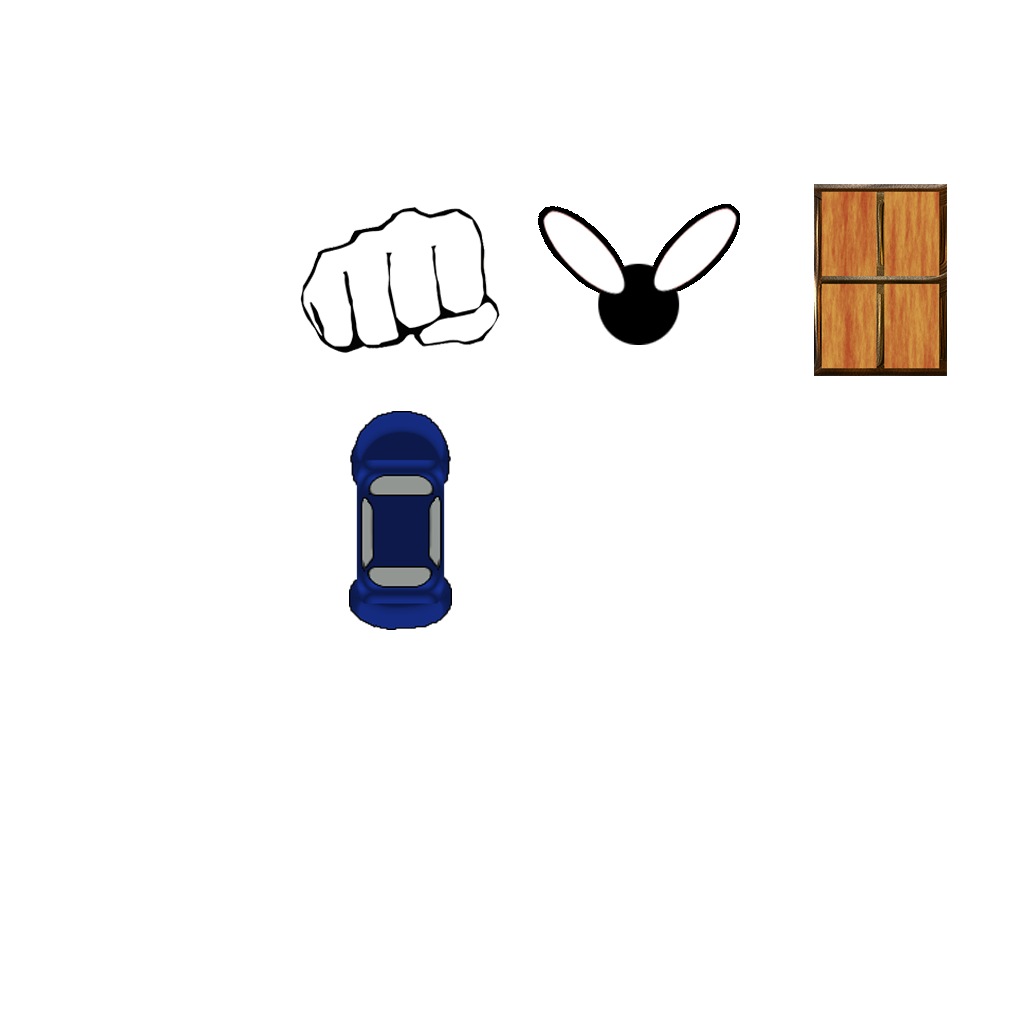
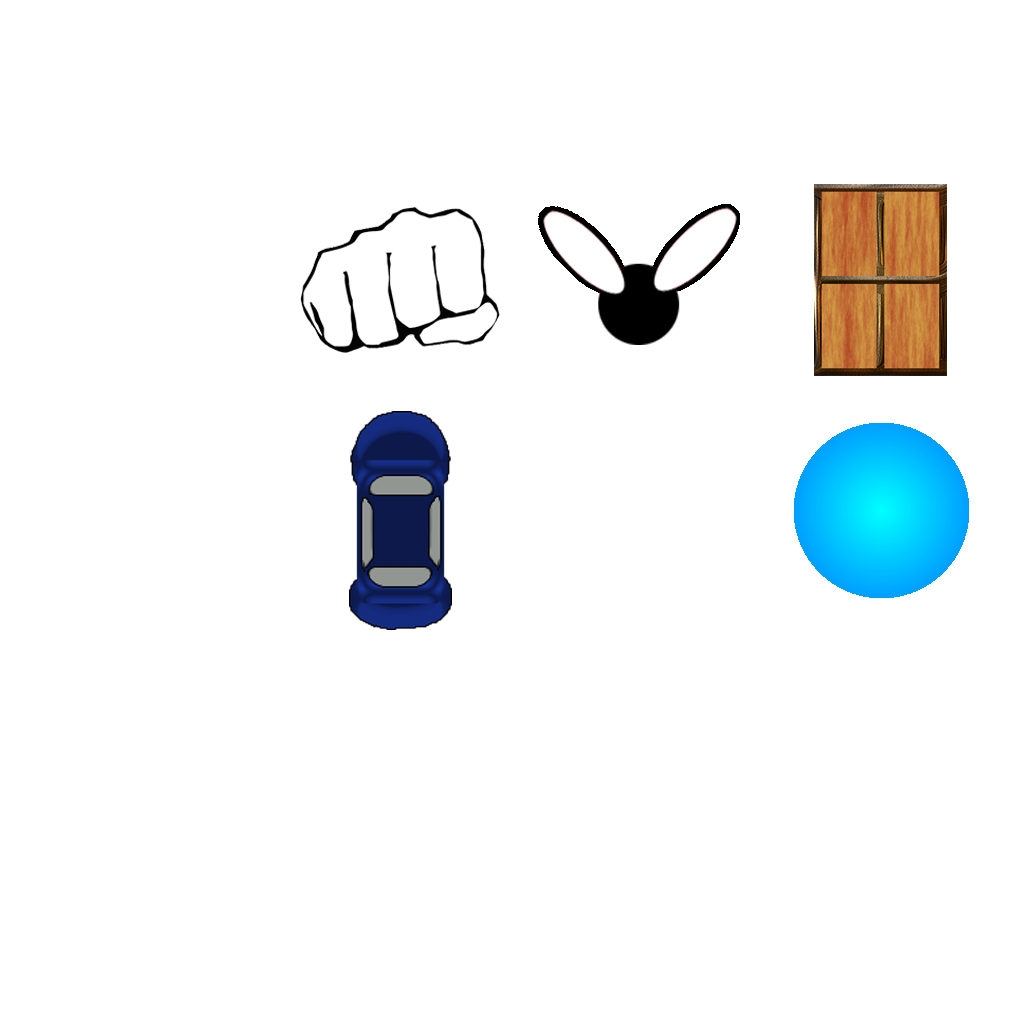
Implemented US15 - LazerBall Play from Grid slot #6

Changed region(s): [[0.75, 0.4062, 0.9688, 0.5938]]

diff --git a/vergegl/src/com/dbz/verge/microgames/LazerBallMicroGame.java b/vergegl/src/com/dbz/verge/microgames/LazerBallMicroGame.java
@@ -1,0 +1,210 @@
+package com.dbz.verge.microgames;
+
+import java.util.List;
+import com.dbz.framework.Game;
+import com.dbz.framework.Input.TouchEvent;
+import com.dbz.framework.math.Rectangle;
+import com.dbz.verge.Assets;
+import com.dbz.verge.MicroGame;
+
+//TODO: Explosion Art, better laser art, something better than bob as target, Good "Firin Mah Lazer" sound byte
+//tap the lazer to charge it.
+public class LazerBallMicroGame extends MicroGame  {
+	
+	// --------------
+	// --- Fields ---
+	// --------------
+
+	// Array used to store the different required counts of the 3 difficulty levels.
+	private int requiredlazerChargeCount[] = { 10, 20, 30 };
+	private int chargeCount = 0;
+	
+	//growth rates for each level (one rate per animation)
+	private int growthStage = 0;
+	int[] level1GrowthRate = {2, 4, 6, 8 ,10};
+	int[] level2GrowthRate = {4, 8, 12, 16, 20};
+	int[] level3GrowthRate = {6, 12, 18, 24, 30};
+	
+	//set to growth rate for lv 1 -- 	//TODO: add logic to handle difficulty changes
+	int[] currentLevelGrowthRate = level1GrowthRate;
+
+	//used to track state of laser
+	private boolean readyToFire = false;
+	private boolean lazerFired = false;
+	
+	// Bounds for touch detection.
+	private Rectangle lazerBallBounds = new Rectangle(150, 40, 600, 600);
+	private Rectangle fireButtonBounds = new Rectangle(0, 240, 100, 250);
+	private Rectangle targetBounds = new Rectangle(1100, 240, 250, 200); 
+	
+	// -------------------
+	// --- Constructor ---
+	// -------------------   
+	public LazerBallMicroGame(Game game) {
+		super(game);
+	}
+
+	    // ---------------------
+		// --- Update Method ---
+		// ---------------------
+	    
+		@Override
+		public void updateRunning(float deltaTime) {
+			totalRunningTime += deltaTime;
+			
+			// Checks for time-based loss.
+			if (lostTimeBased()) {
+				Assets.playSound(Assets.hitSound);
+				resetGrowthStage();
+				return;
+			}
+			
+	        //if lazer has been fired, keep lazer moving & check for target collision
+	        if(lazerFired){
+	        	movelazer();
+        		
+        		if(collision(lazerBallBounds, targetBounds)){
+        			Assets.playSound(Assets.highJumpSound);
+        			microGameState = MicroGameState.Won;
+        			resetGrowthStage();
+        		}
+        		return;
+	        }
+			
+		    List<TouchEvent> touchEvents = game.getInput().getTouchEvents();
+		    int len = touchEvents.size();
+		    for(int i = 0; i < len; i++) {
+		        TouchEvent event = touchEvents.get(i);
+	        	touchPoint.set(event.x, event.y);
+		        guiCam.touchToWorld(touchPoint);
+		        
+		        // Tests if lazer is touched.
+	        	if (targetTouched(event, touchPoint, lazerBallBounds)) {
+	        		
+	    			if(!readyToFire){
+		        		chargeCount++;
+		        		if(chargeCount == currentLevelGrowthRate[growthStage])
+		        			increaseGrowthStage();
+	    			}
+	        		
+	        		if (chargeCount == requiredlazerChargeCount[level-1]) {
+	        			readyToFire = true;
+	        			fireButtonReady();
+	        				
+	        		}
+	        		else if (chargeCount < requiredlazerChargeCount[level-1])
+	        			Assets.playSound(Assets.coinSound);
+	        		return;
+	        	}
+	        	
+		        //Tests if fire button is touched
+		        if(targetTouched(event, touchPoint, fireButtonBounds))
+		        	if(readyToFire){
+		        		firelazer();
+		        		return;
+		        	}	
+	        	
+		        
+	        	// Tests for non-unique touch events, which is currently pause only.
+		        if (event.type == TouchEvent.TOUCH_UP)
+		        	super.updateRunning(touchPoint);
+		    }   
+		}
+
+		// -------------------
+		// --- Draw Method ---
+		// -------------------
+		
+		@Override
+		public void presentRunning() {
+			drawBackground();
+			drawObjects();
+			// drawRunningBounds();
+			
+			if (readyToFire || lazerFired)
+				drawInstruction("FIRE YA LAZERRR!!!!");
+			else drawInstruction("Tap the lazer ball!");
+			super.presentRunning();
+		}
+		
+		
+		// ----------------------------
+		// --- Utility Update Methods ---
+		// ----------------------------
+		
+		//Increments lazer's growth stage, changes lazer animation
+		private void increaseGrowthStage(){
+			growthStage++;
+			Assets.lazerState1Region = Assets.lazerChargingAnim.getKeyFrame(growthStage); //overrides first texture w/ next anim
+		}
+		
+		//resets growth stage and lazer animation.
+		private void resetGrowthStage(){
+			growthStage = 0;
+			readyToFire = false;
+			lazerFired = false;
+			Assets.lazerState1Region = Assets.lazerChargingAnim.getKeyFrame(growthStage);
+		}
+		
+		private void fireButtonReady(){
+			Assets.lazerFireButtonInitialRegion = Assets.lazerFireButtonAnim.getKeyFrame(1);
+		}
+
+		private void resetFireButton(){
+			Assets.lazerFireButtonInitialRegion = Assets.lazerFireButtonAnim.getKeyFrame(0);
+		}
+		
+		private void firelazer(){		
+        		movelazer();
+        		lazerFired = true;
+        		readyToFire = false;
+        		resetFireButton();
+		}
+		
+		private void movelazer(){
+			lazerBallBounds.lowerLeft.x *= 2;
+		}
+		
+		public boolean collision(Rectangle lazer, Rectangle target) {
+			
+			if(target.lowerLeft.x <= lazer.lowerLeft.x)
+				return true;
+			
+			return false;
+		}
+		
+		
+		// ----------------------------
+		// --- Utility Draw Methods ---
+		// ----------------------------
+		
+		@Override
+		public void drawBackground() {
+			// Draw background.
+			batcher.beginBatch(Assets.lazerBackground);
+			batcher.drawSprite(0, 0, 1280, 800, Assets.lazerBackgroundRegion);
+			batcher.endBatch();
+		}
+		
+		@Override
+		public void drawObjects() {
+			// Draw Brofist.
+			batcher.beginBatch(Assets.lazer);
+			batcher.drawSprite(lazerBallBounds, Assets.lazerState1Region);
+			batcher.drawSprite(fireButtonBounds, Assets.lazerFireButtonInitialRegion);
+			batcher.drawSprite(targetBounds, Assets.lazerTargetRegion);
+			batcher.endBatch();
+		}
+		
+		@Override
+		public void drawRunningBounds() {
+			// Bounding Boxes
+			batcher.beginBatch(Assets.boundOverlay);
+		    batcher.drawSprite(lazerBallBounds, Assets.boundOverlayRegion); // BroFist Bounding Box
+		    batcher.drawSprite(fireButtonBounds, Assets.boundOverlayRegion);
+		    batcher.drawSprite(targetBounds, Assets.boundOverlayRegion);
+		    batcher.endBatch();
+		}
+		
+	
+}

diff --git a/vergegl/src/com/dbz/verge/Assets.java b/vergegl/src/com/dbz/verge/Assets.java
@@ -61,6 +61,22 @@ public class Assets {
     public static TextureRegion trafficRedCarRegion;
     public static TextureRegion trafficBlackCarRegion;
     
+    public static Texture lazerBackground;
+    public static TextureRegion lazerBackgroundRegion;
+    public static Texture lazer;
+    public static TextureRegion lazerState1Region;
+    public static TextureRegion lazerState2Region;
+    public static TextureRegion lazerState3Region;
+    public static TextureRegion lazerState4Region;
+    public static TextureRegion lazerState5Region;
+    public static TextureRegion lazerState6Region;
+    public static TextureRegion lazerFireButtonInitialRegion;
+    public static TextureRegion lazerFireButtonReadyRegion;
+    public static TextureRegion lazerTargetRegion;
+    public static Animation lazerChargingAnim;
+    public static Animation lazerFireButtonAnim;
+    
+    
     // ------------------------
   	// --- Testing Assets -----
   	// ------------------------
@@ -143,6 +159,23 @@ public class Assets {
         trafficRedCarRegion = new TextureRegion(traffic, 80, 800, 80, 170);
         trafficBlackCarRegion = new TextureRegion(traffic, 160, 800, 80, 170);
         
+        lazerBackground = new Texture(game, "lazerBackground.png");
+        lazerBackgroundRegion = new TextureRegion(lazerBackground, 0, 0, 1280, 800);
+        lazer = new Texture(game, "lazerItems.png");
+        lazerState1Region= new TextureRegion(lazer, 0, 0, 256, 256);
+        lazerState2Region = new TextureRegion(lazer, 256, 0, 256, 256);
+        lazerState3Region = new TextureRegion(lazer, 512, 0, 256, 256);
+        lazerState4Region = new TextureRegion(lazer, 768, 0, 256, 256);
+        lazerState5Region = new TextureRegion(lazer, 0, 256, 256, 256);
+        lazerState6Region = new TextureRegion(lazer, 256, 256, 256, 256);        
+        lazerFireButtonInitialRegion = new TextureRegion(lazer, 512, 256, 128, 256);
+        lazerFireButtonReadyRegion = new TextureRegion(lazer, 640, 256, 128, 256);
+        lazerTargetRegion = new TextureRegion(lazer, 896, 256, 128, 128);
+        lazerChargingAnim = new Animation(0, lazerState1Region, lazerState2Region, 
+        								lazerState3Region, lazerState4Region, lazerState5Region, lazerState6Region);
+        lazerFireButtonAnim = new Animation(0, lazerFireButtonInitialRegion, lazerFireButtonReadyRegion);
+        
+        
         
         // *** Initialize Testing Assets. ***
         boundOverlay = new Texture(game, "boundoverlay.png");
@@ -198,8 +231,9 @@ public class Assets {
         highJumpSound = game.getAudio().newSound("highjump.ogg");
         hitSound = game.getAudio().newSound("hit.ogg");
         coinSound = game.getAudio().newSound("coin.ogg");
-        clickSound = game.getAudio().newSound("click.ogg");       
-    }       
+        clickSound = game.getAudio().newSound("click.ogg");
+        
+    }      
     
     public static void reload() {
     	// *** Reload Menu Assets. ***
@@ -219,6 +253,8 @@ public class Assets {
         fly.reload();
         fire.reload();
         traffic.reload();
+        lazerBackground.reload();
+        lazer.reload();
         
         // *** Reload Testing Assets. ***
         boundOverlay.reload();

diff --git a/vergegl/src/com/dbz/verge/GameGridMenuScreen.java b/vergegl/src/com/dbz/verge/GameGridMenuScreen.java
@@ -10,6 +10,7 @@ import com.dbz.verge.microgames.BroFistMicroGame;
 import com.dbz.verge.microgames.CircuitMicroGame;
 import com.dbz.verge.microgames.FireMicroGame;
 import com.dbz.verge.microgames.FlyMicroGame;
+import com.dbz.verge.microgames.LazerBallMicroGame;
 import com.dbz.verge.microgames.TrafficMicroGame;
 
 public class GameGridMenuScreen extends MenuScreen {
@@ -95,7 +96,7 @@ public class GameGridMenuScreen extends MenuScreen {
                 // Sixth MicroGame Bounds Check.
                 if (OverlapTester.pointInRectangle(sixthMicroGameBounds, touchPoint)) {
                 	Assets.playSound(Assets.clickSound);
-                	// Set the screen to a new MicroGameScreen.
+                	game.setScreen(new LazerBallMicroGame(game));// Set the screen to a new MicroGameScreen.
                 	return;
                 }
                 

diff --git a/vergegl/src/com/dbz/framework/gl/Animation.java b/vergegl/src/com/dbz/framework/gl/Animation.java
@@ -24,4 +24,9 @@ public class Animation {
         }        
         return keyFrames[frameNumber];
     }
+    
+    //added to return one of the keyFrames directly
+    public TextureRegion getKeyFrame(int keyFrame) {
+        return keyFrames[Math.min(keyFrames.length-1, keyFrame)]; //Math.min ensures no array out to bounds
+    }
 }
